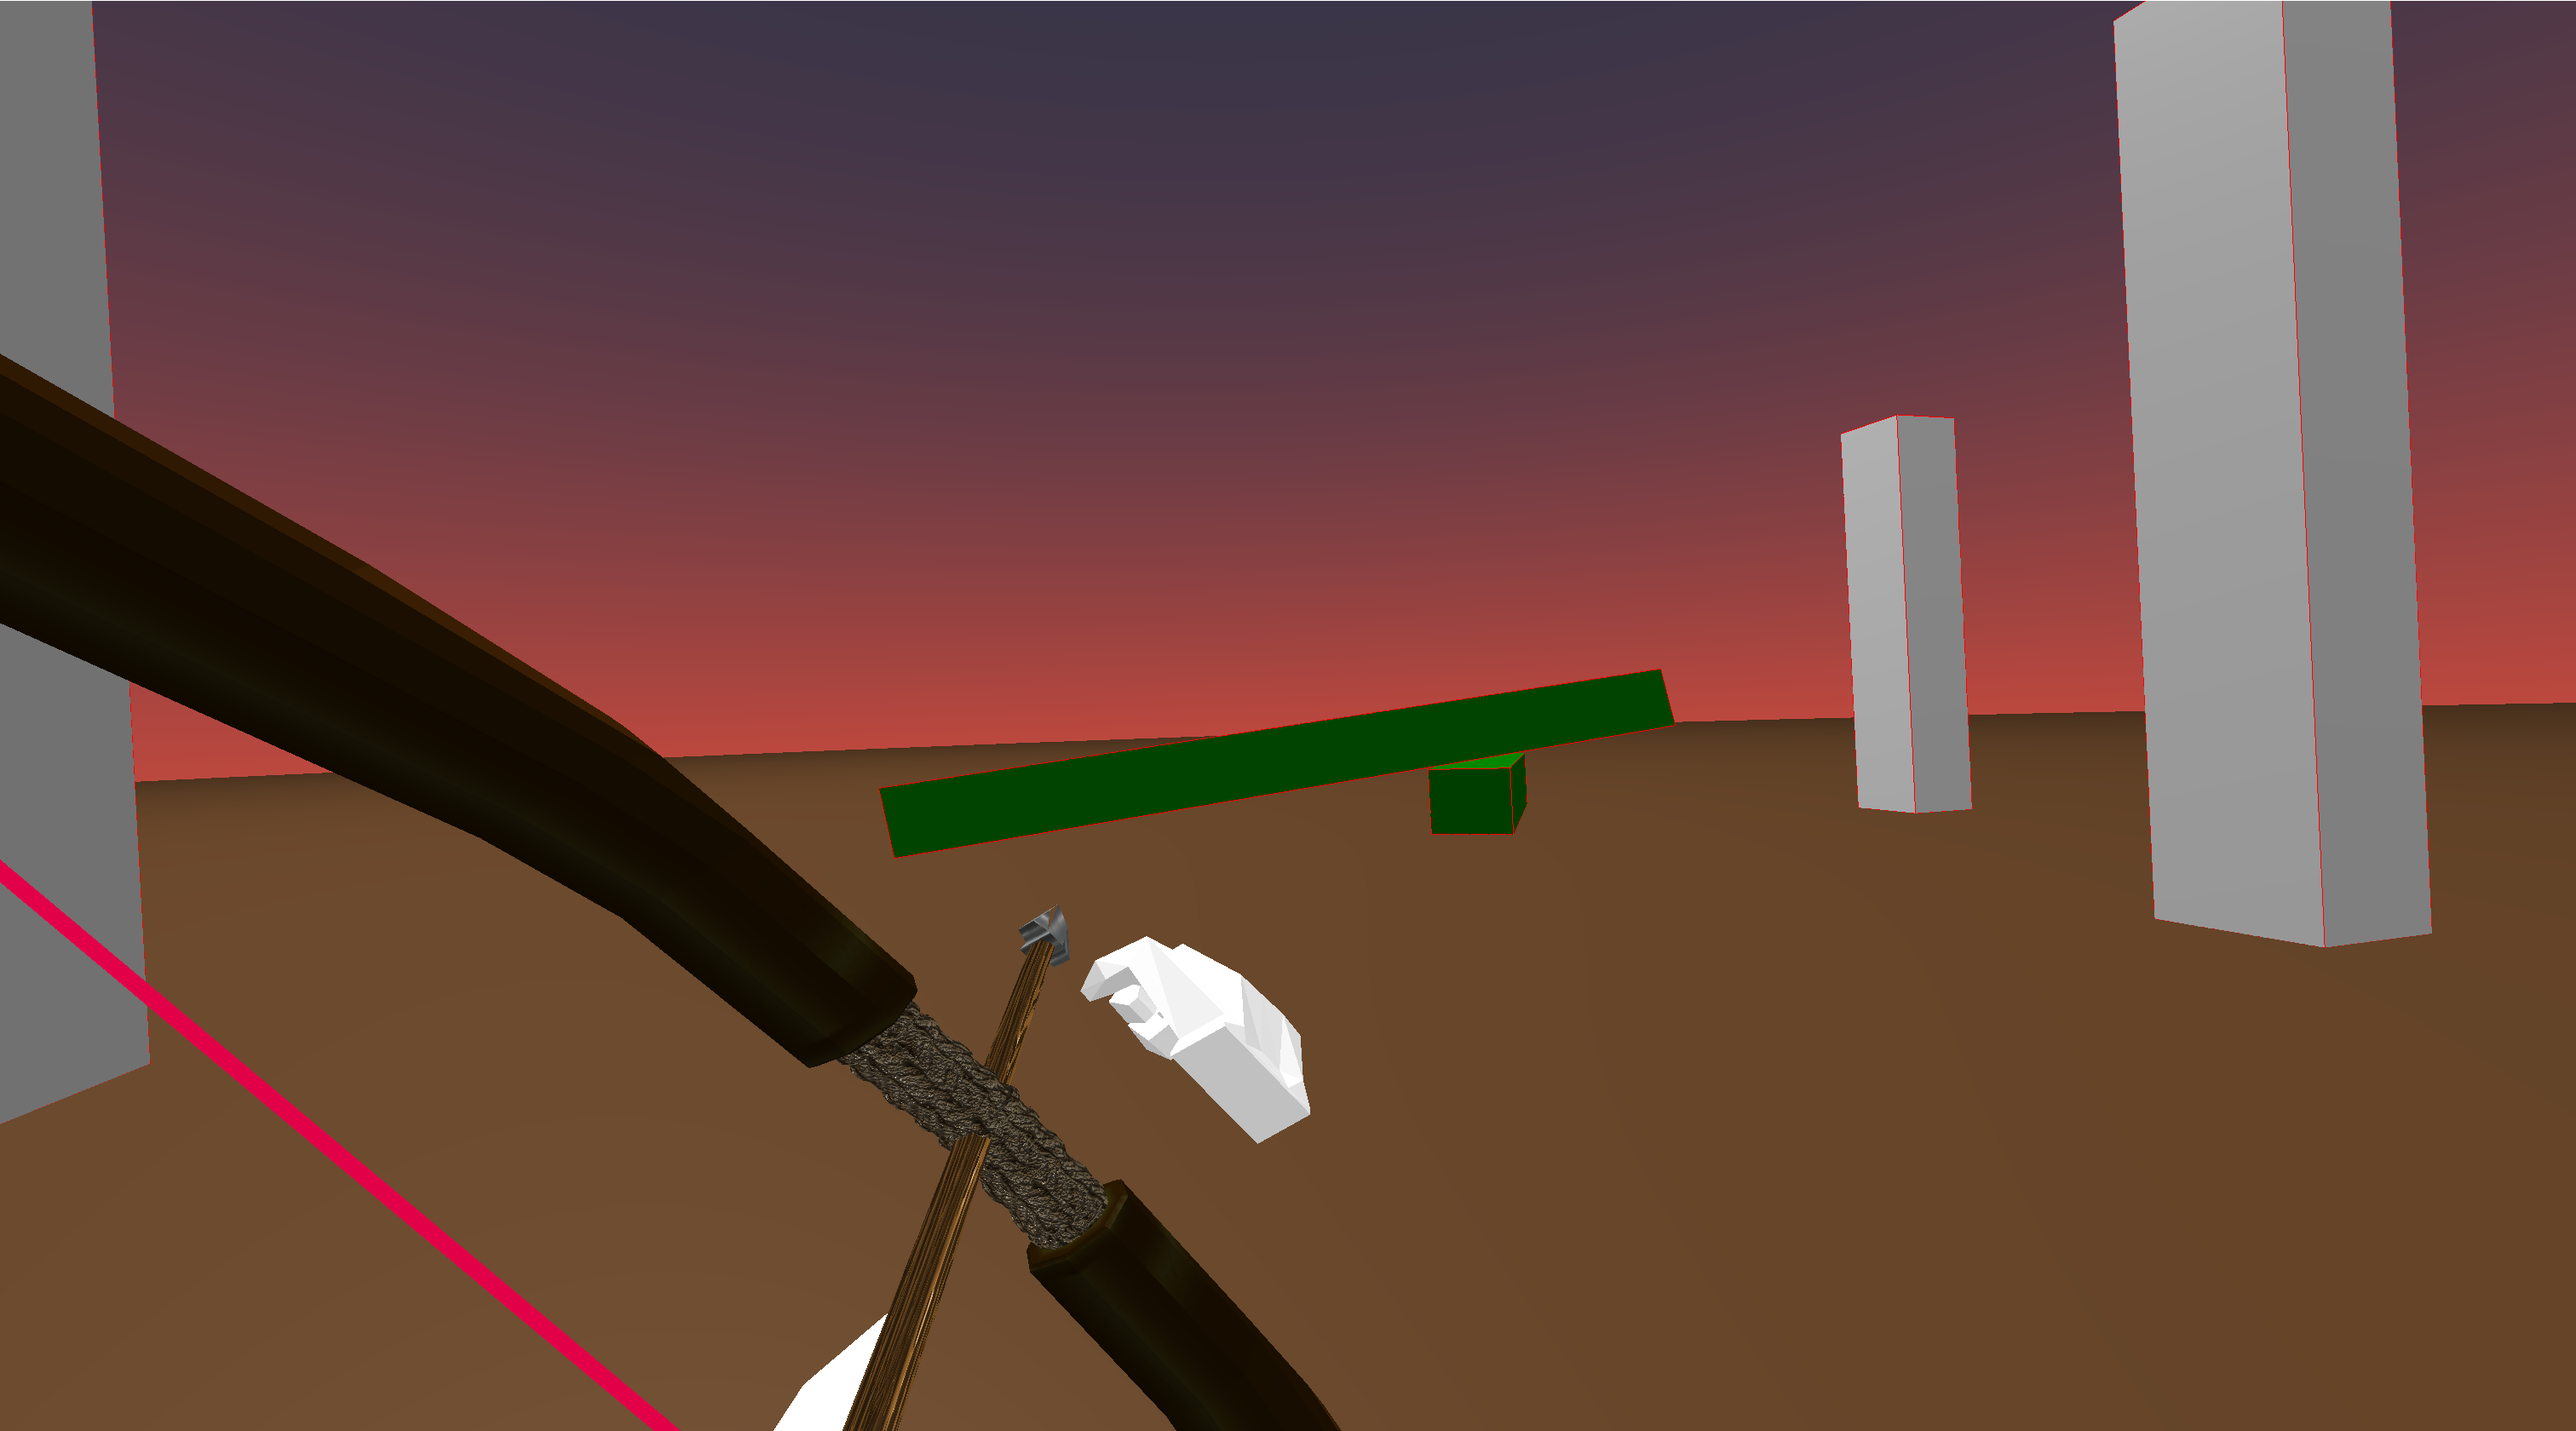
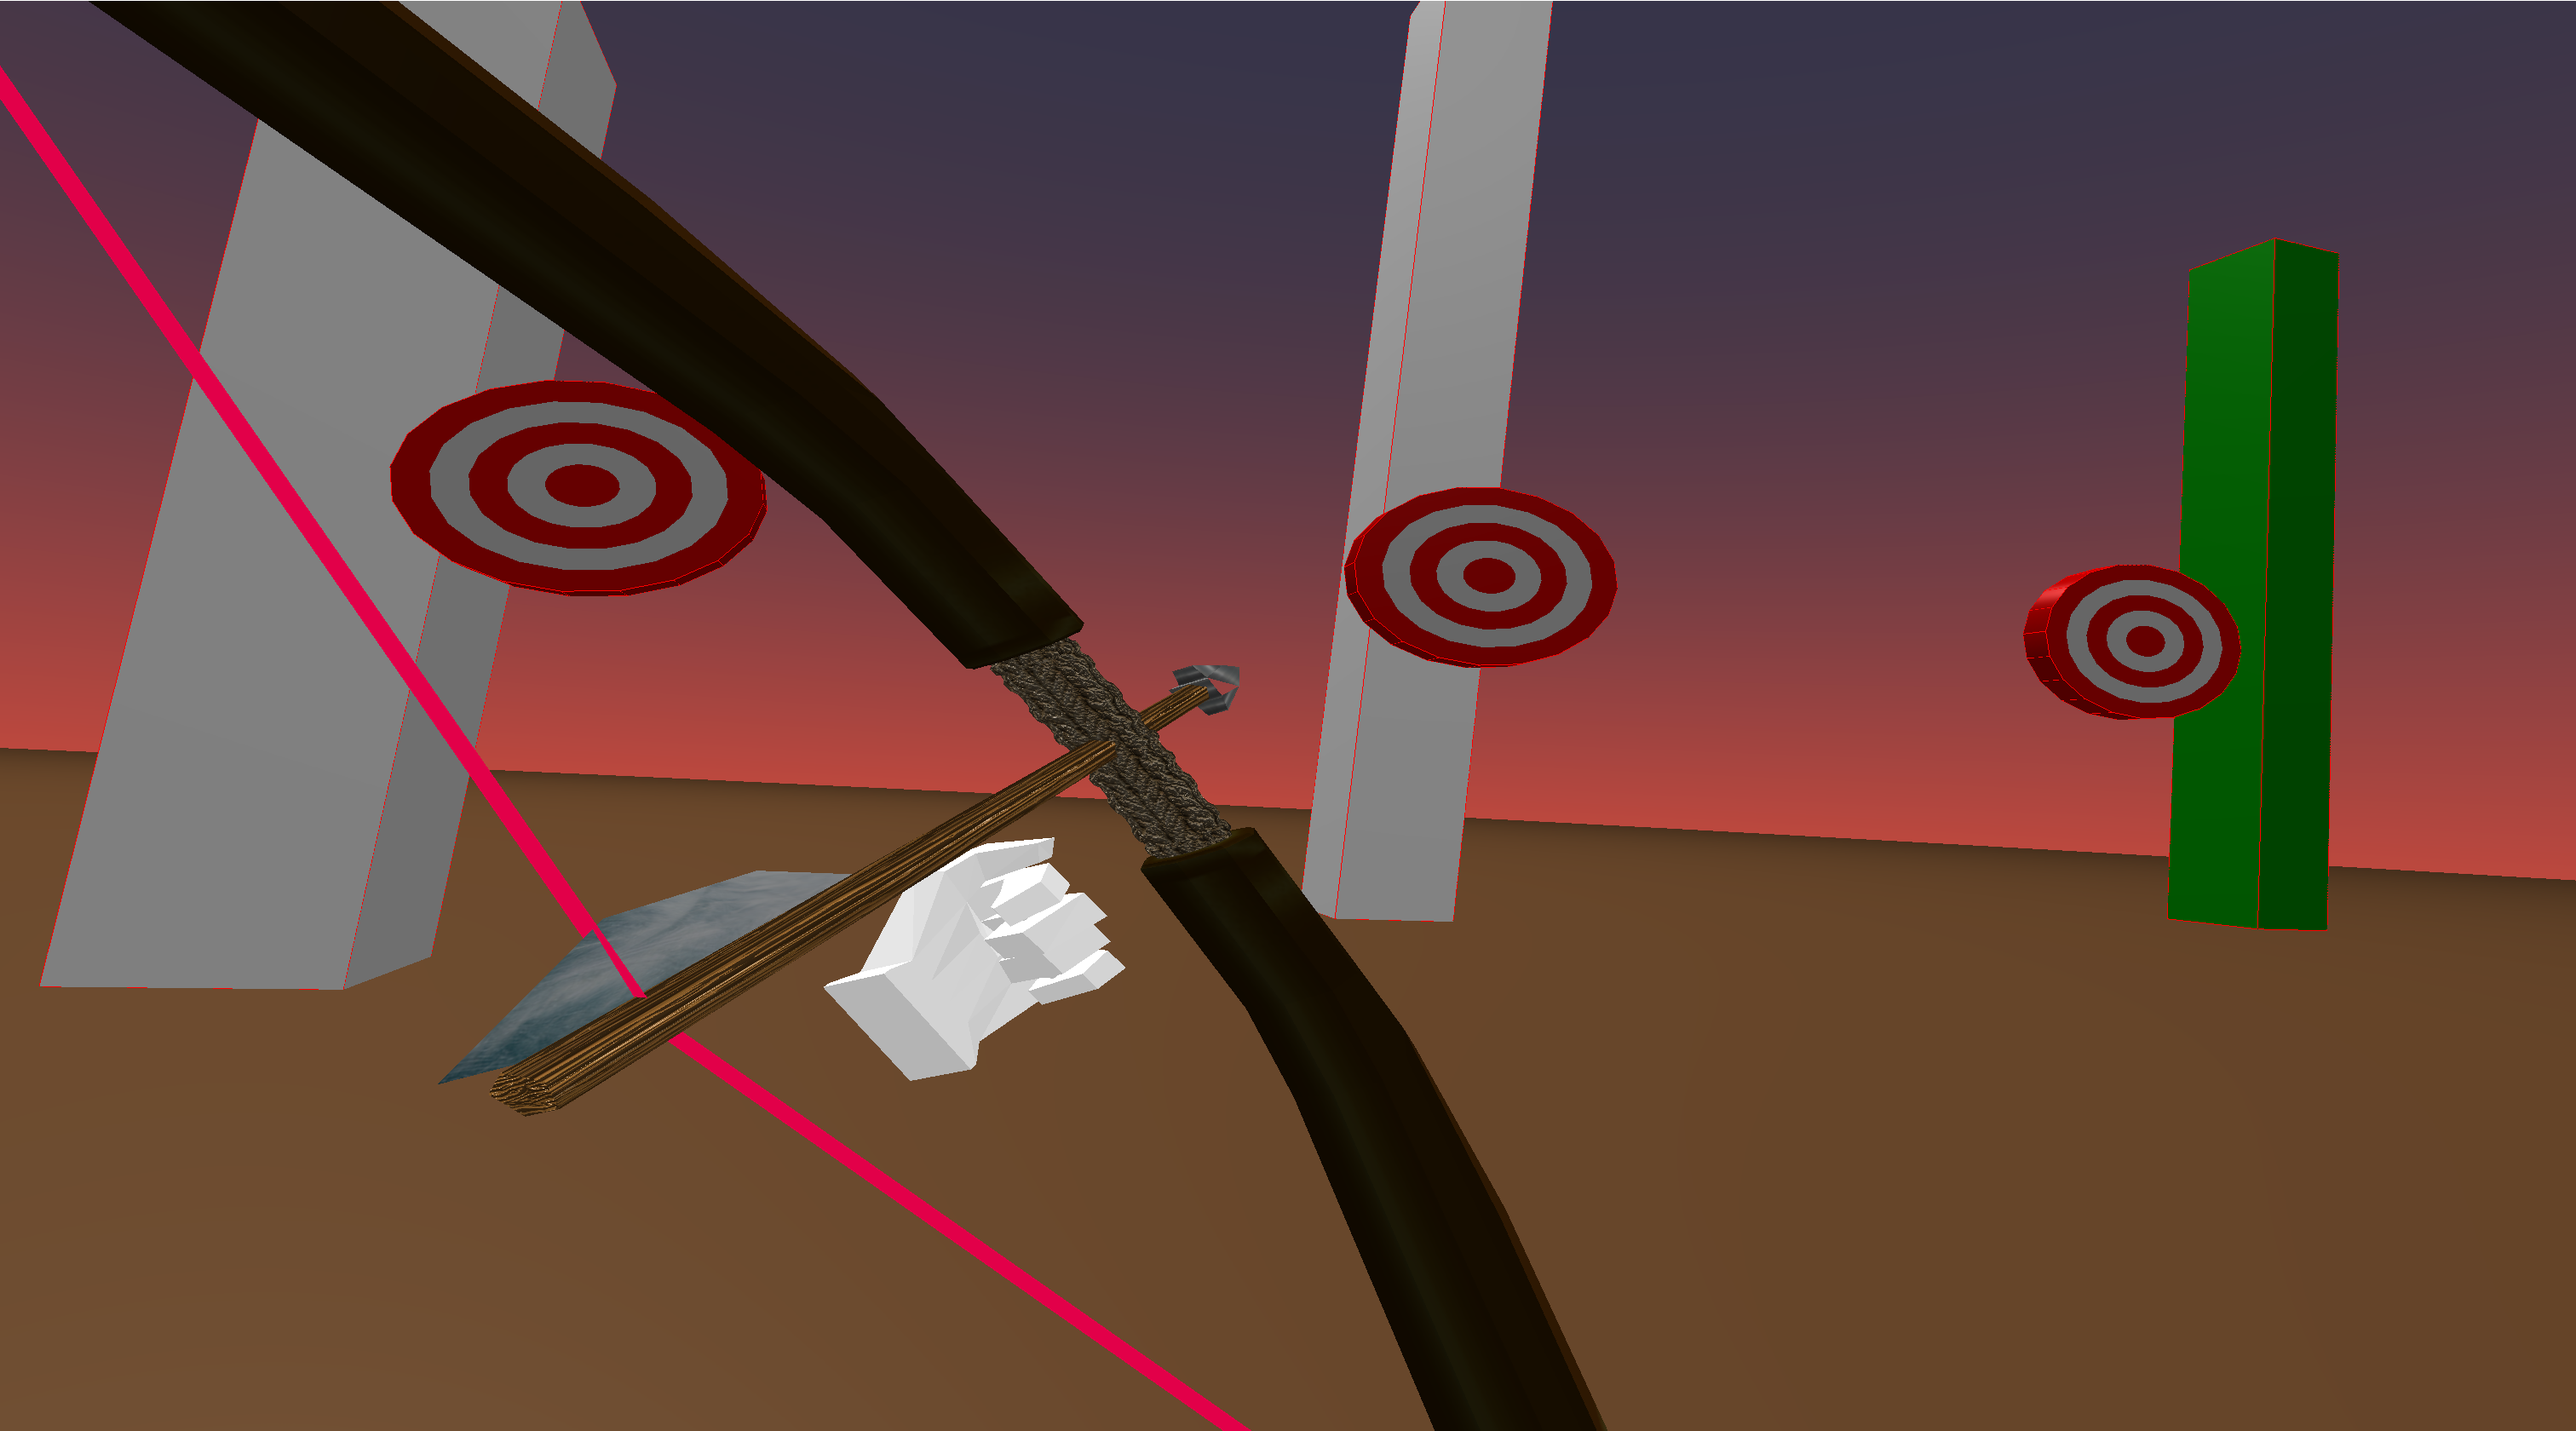
pictures

diff --git a/index.html b/index.html
@@ -68,12 +68,10 @@
 
      <!-- Targets-->
 
-<!--     <a-entity class="target"  static-body scale="10 10 10" rotation="0 90 0" position = "0 2 -10" obj-model="obj: #target-obj; mtl: #target-mtl"></a-entity>
-    <a-entity class="target" static-body scale="10 10 10"  rotation="0 90 0" position = "0 4 -12" obj-model="obj: #target-obj; mtl: #target-mtl"></a-entity>
-    <a-entity class="target" static-body scale="10 10 10" rotation="0 90 0" position = "0 6 -14" obj-model="obj: #target-obj; mtl: #target-mtl"></a-entity> -->
-<!--     <a-box static-body color="red" position="0 0.5 -5" width="3" height="1" depth="1"></a-box>
-    <a-box dynamic-body color="blue" position="5 0.5 0" width="1" height="1" depth="1"></a-box>
- -->
+    <a-entity class="target"  static-body scale="10 10 10" rotation="0 90 0" position = "0 2 -4" obj-model="obj: #target-obj; mtl: #target-mtl"></a-entity>
+    <a-entity class="target"  static-body scale="10 10 10" rotation="0 90 0" position = "-2 2 -4" obj-model="obj: #target-obj; mtl: #target-mtl"></a-entity>
+    <a-entity class="target"  static-body scale="10 10 10" rotation="0 90 0" position = "2 2 -4" obj-model="obj: #target-obj; mtl: #target-mtl"></a-entity>
+
     <a-entity id="forest" poissondisc-forest></a-entity>
 
   </a-scene>
